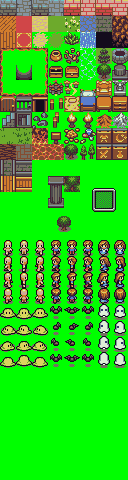
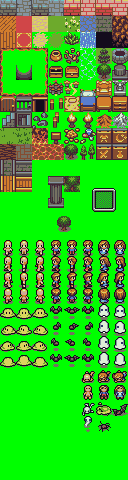
Added combat, imported death sprites.

Changed region(s): [[0.625, 0.75, 1.0, 0.9062]]

diff --git a/main.c b/main.c
@@ -51,16 +51,20 @@ void nentitySpawn(entity in) {
 
 void deadEntityCleaner() {
 	for (register i=0; i<spawnSlot; i++) {
-		if(entSet[i].health==0) entSet[i].behaviourId=0;
+		if(entSet[i].health==0) {
+			entSet[i].behaviourId=255;
+			entSet[i].collisionClass=0;
+		}
 	}
 }
 
 void spriteCollisions() {
 	for (register i=0; i<spawnSlot; i++) {
 		for (register j=0; j<spawnSlot; j++) {
-			if((entSet[j].x+TS/2 > entSet[i].x+entSet[i].xSub) && (entSet[j].x+TS/2 < entSet[i].x+TS-entSet[i].xSub) && entSet[j].collisionClass != entSet[i].collisionClass) { //Checks for X overlap and class conflicts.
+			if((entSet[j].x+TS/2 > entSet[i].x+entSet[i].xSub) && (entSet[j].x+TS/2 < entSet[i].x+TS-entSet[i].xSub) && entSet[j].collisionClass != entSet[i].collisionClass && entSet[j].collisionClass<128 && entSet[j].collisionClass!=0 ){ //Checks for X overlap and class conflicts.
 				if((entSet[j].y+TS/2 > entSet[i].y+entSet[i].ySub) && (entSet[j].y+TS/2 < entSet[i].y+TS-entSet[i].ySub)) { //Checks for Y overlap.
-					if(entSet[i].collisionClass == 2) {
+					switch (entSet[i].collisionClass) {
+						case 2:
 						if (entSet[j].y+TS/2 < entSet[i].y+TS/2) {
 							if(entSet[j].x+TS/2<entSet[i].x+TS/2) {
 								entSet[j].status[2]=entSet[j].collisionClass;
@@ -92,7 +96,45 @@ void spriteCollisions() {
 								entSet[j].behaviourId=8; //down right
 								entSet[j].collisionClass=entSet[i].collisionClass;
 							}
-						}												
+						}
+						break;
+						case 129:
+							printf("Collision");
+							switch(entSet[i].direction) {
+								case 0:
+									entSet[j].status[2]=entSet[j].collisionClass;
+									entSet[j].status[1]=10;
+									entSet[j].status[0]=entSet[j].behaviourId;
+									entSet[j].behaviourId=6; //up right
+									entSet[j].collisionClass=entSet[i].collisionClass;
+								break;
+								case 1:
+									entSet[j].status[2]=entSet[j].collisionClass;
+									entSet[j].status[1]=10;
+									entSet[j].status[0]=entSet[j].behaviourId;
+									entSet[j].behaviourId=8; //down right
+									entSet[j].collisionClass=entSet[i].collisionClass;
+								break;
+								case 2:
+									entSet[j].status[2]=entSet[j].collisionClass;
+									entSet[j].status[1]=10;
+									entSet[j].status[0]=entSet[j].behaviourId;
+									entSet[j].behaviourId=7; //down left
+									entSet[j].collisionClass=entSet[i].collisionClass;
+								break;
+								case 3:
+									entSet[j].status[2]=entSet[j].collisionClass;
+									entSet[j].status[1]=10;
+									entSet[j].status[0]=entSet[j].behaviourId;
+									entSet[j].behaviourId=5; //up left
+									entSet[j].collisionClass=entSet[i].collisionClass;
+								break;
+								if (entSet[entSet[i].status[1]].attack > entSet[j].health) entSet[j].health-=entSet[entSet[i].status[1]].attack;
+								else entSet[j].health=0;									
+							}
+							if (entSet[entSet[i].status[1]].attack < entSet[j].health) entSet[j].health-=entSet[entSet[i].status[1]].attack;
+							else entSet[j].health=0;
+						break;									
 					}
 				}
 			}
@@ -134,7 +176,7 @@ SDL_Surface* surfLoader (SDL_Surface* imgIn, unsigned int sizeX, unsigned int si
 int main () {
 	printf("Scroll status: %u\n", ENABLESCROLL);
 	SDL_Init(SDL_INIT_VIDEO);
-	w = SDL_CreateWindow("Eastward Bound", 0, 0, SW*TS, SH*TS, SDL_WINDOW_OPENGL);
+	w = SDL_CreateWindow(TITLE, 0, 0, SW*TS, SH*TS, SDL_WINDOW_OPENGL);
 	r = SDL_CreateRenderer(w,-1,SDL_RENDERER_ACCELERATED || SDL_RENDERER_PRESENTVSYNC);
 	s = SDL_GetWindowSurface(w);
 	bgLayer=SDL_CreateRGBSurface(0,SW*TS,SH*TS,32,0,0,0,0);
@@ -301,6 +343,7 @@ void loop() {
 		refresh=0;
 	}
 	image(bgLayer,0,0,SW*TS,SH*TS);
+	deadEntityCleaner();
 	spriteCollisions();
 	entityLogic();
 	flip();

diff --git a/entityLogic.c b/entityLogic.c
@@ -3,28 +3,39 @@ void entityLogic() {
 		switch(entSet[i].behaviourId) {
 
 			/*The AI state machine starts here.*/
-
+			case 255:
+				if (entSet[i].deathframe != 0) image(tileset[entSet[i].deathframe], entSet[i].x, entSet[i].y, TS, TS);
+			break;		
 			case 1: //The player.
 				image(tileset[ANIMPARSE], entSet[i].x, entSet[i].y, TS, TS);
 				char pmotion=0;
 				for (register j=0; j<7; j++) { //number of pixels to move per frame.
-					if (keyboard[SDL_SCANCODE_RIGHT]) {
-						moveX(&entSet[i], 1);
-						pmotion=1;
-					}
-					if (keyboard[SDL_SCANCODE_LEFT]) {
-						moveX(&entSet[i], -1);
-						pmotion=1;
-					}						
-					if (keyboard[SDL_SCANCODE_UP]) {
-						moveY(&entSet[i], -1);
-						pmotion=1;
-					}
-					if (keyboard[SDL_SCANCODE_DOWN]) {
-						moveY(&entSet[i], 1);
-						pmotion=1;
-					}
-					if (pmotion == 0) entSet[i].animation=0;
+					if (entSet[i].status[3]==0) {
+						if (keyboard[SDL_SCANCODE_RIGHT]) {
+							moveX(&entSet[i], 1);
+							pmotion=1;
+						}
+						if (keyboard[SDL_SCANCODE_LEFT]) {
+							moveX(&entSet[i], -1);
+							pmotion=1;
+						}						
+						if (keyboard[SDL_SCANCODE_UP]) {
+							moveY(&entSet[i], -1);
+							pmotion=1;
+						}
+						if (keyboard[SDL_SCANCODE_DOWN]) {
+							moveY(&entSet[i], 1);
+							pmotion=1;
+						}
+						if (pmotion == 0) entSet[i].animation=0;
+
+						if (keyboard[SDL_SCANCODE_X] && entSet[i].status[3] == 0 && entSet[i].status[0] == 0) {
+							printf("Detected: %u\n", spawnSlot);
+							entitySpawn(ent_sword(entSet[i].direction, entSet[i].x, entSet[i].y, i));
+							entSet[i].status[3]=10;
+							entSet[i].status[0]=30;
+						}
+					}	
 
 					if (keyboard[SDL_SCANCODE_K]) snapToGrid(&entSet[i]);
 					if (keyboard[SDL_SCANCODE_F11]) SDL_SetWindowFullscreen(w, SDL_WINDOW_FULLSCREEN);                            
@@ -33,8 +44,9 @@ void entityLogic() {
 					if (entSet[i].y+TS > TS*SH-1) scroll=2;
 					if (entSet[i].x < 1) scroll = 3;
 					if (entSet[i].x > TS*SW-TS-1) scroll = 4;
-
 				}
+				if(entSet[i].status[3]>0) entSet[i].status[3]--;
+				if(entSet[i].status[0]>0) entSet[i].status[0]--;
 			break;//End of player.
 
 
@@ -99,6 +111,31 @@ void entityLogic() {
 					entSet[i].collisionClass=entSet[i].status[2];
 				}
 				image(tileset[ANIMPARSE], entSet[i].x, entSet[i].y, TS, TS);
+			break;
+
+
+			case 9:
+				if (entSet[i].status[0]==0) entSet[i].health=0;
+				entSet[i].status[0]--;
+				switch(entSet[entSet[i].status[1]].direction) {
+					case 0:
+						entSet[i].x=entSet[entSet[i].status[1]].x;
+						entSet[i].y=entSet[entSet[i].status[1]].y-TS;
+					break;
+					case 1:
+						entSet[i].x=entSet[entSet[i].status[1]].x;
+						entSet[i].y=entSet[entSet[i].status[1]].y+TS;
+					break;
+					case 2:
+						entSet[i].x=entSet[entSet[i].status[1]].x-TS;
+						entSet[i].y=entSet[entSet[i].status[1]].y;
+					break;
+					case 3:
+						entSet[i].x=entSet[entSet[i].status[1]].x+TS;
+						entSet[i].y=entSet[entSet[i].status[1]].y;
+					break;
+				}
+				if(entSet[entSet[i].status[1]].status[3] != 0) image(tileset[ANIMPARSE], entSet[i].x, entSet[i].y, TS, TS);
 			break;
 		}
 	}

diff --git a/entities.c b/entities.c
@@ -17,14 +17,16 @@ entity ent_player() {
 	me.behaviourId=1;
 	me.x=280;
 	me.y=20;
+	me.health=100;
+	me.attack=5;
 	me.xSub=14;
 	me.ySub=1;
 	me.direction=1;
-	me.collisionClass=0;
-	me.frame[0]=148;
-	me.frame[1]=124;
-	me.frame[2]=132;
-	me.frame[3]=140;
+	me.collisionClass=1;
+	me.frame[0]=148; //up
+	me.frame[1]=124; //down
+	me.frame[2]=132; //left
+	me.frame[3]=140; //right
 	me.frame[4]=147;
 	me.frame[5]=123;
 	me.frame[6]=131;
@@ -43,6 +45,8 @@ entity ent_aitest() {
 	me.ySub=10;
 	me.direction=1;
 	me.attack=2;
+	me.deathframe=206;
+	me.health=30;
 	me.collisionClass=2;
 	me.frame[0]=177;
 	me.frame[1]=153;
@@ -60,9 +64,46 @@ entity ent_aitest() {
 	return me;
 }
 
+entity ent_sword(unsigned char direction, uint16_t x, uint16_t y, unsigned char creator) {
+	entity me;
+	switch(direction){
+		case 0:
+			me.y-=TS;
+			me.xSub=16;
+			me.ySub=1;
+		break;
+		case 1:
+			me.y+=TS;
+			me.xSub=16;
+			me.ySub=1;			
+		break;
+		case 2:
+			me.x-=TS;
+			me.xSub=1;
+			me.ySub=16;
+		break;
+		case 3:
+			me.x+=TS;
+			me.xSub=1;
+			me.ySub=16;
+		break;
+	}
+	me.frame[0]=67;
+	me.frame[1]=67;
+	me.frame[2]=67;
+	me.frame[3]=67;
+	me.status[0]=10;
+	me.status[1]=creator;
+	me.behaviourId=9;
+	me.setframe=direction;
+	me.collisionClass=129;
+	return me;
+}
+
 entity ent_wall(unsigned char x, unsigned char y, unsigned char tile) {
 	entity me;
 	me.behaviourId=2;
+	me.health=1;
 	me.x=x*TS;
 	me.y=y*TS;
 	me.frame[0]=tile;
@@ -74,6 +115,8 @@ entity ent_wall(unsigned char x, unsigned char y, unsigned char tile) {
 entity ent_nonsolid(unsigned char x, unsigned char y, unsigned char tile) {
 	entity me;
 	me.behaviourId=2;
+	me.collisionClass=0;
+	me.health=1;
 	me.x=x*TS;
 	me.y=y*TS;
 	me.animation=0;

diff --git a/main.h b/main.h
@@ -8,7 +8,7 @@
 #define FLIMIT 32
 #define INVLIMIT 8
 #define ENTFRAMES 32
-#define TILECOUNT 182 //Set this to the actual number of sprites for best performance.
+#define TILECOUNT 214 //Set this to the actual number of sprites for best performance.
 #define FRAMERATE 30
 
 #define SHEETX 128 //Tile sheet size
@@ -18,6 +18,8 @@
 
 #define ANIMPARSE entSet[i].frame[entSet[i].direction+entSet[i].animation]
 #define PRESENTENT entSet[i]
+
+#define TITLE "Eastbound Interloper"
 
 
 SDL_Window* w = NULL;
@@ -47,6 +49,7 @@ typedef struct entity {
 	unsigned char inventory[INVLIMIT];
 	unsigned char frame[FLIMIT];
 	unsigned char setframe;
+	unsigned char deathframe;
 } entity;
 
 typedef struct screen {

diff --git a/maps.c b/maps.c
@@ -42,8 +42,8 @@ screen testhouse() {
 		{-1,-1,-1,-1,-1,-1,-1,-1,-1,-1},
 		{-1,-1,-1,54,-1,-1,-1,-1,-1,-1},
 		{-1,-1,-1,-1,-1,-1,-1,-1,-1,-1},
-		{-1,-1,-1,-1,-1,-1,-1,-1,-1,-1},
 		{-1,-1,-1,55,-1,-1,-1,-1,-1,-1},
+		{-1,-1,-1,-1,-1,-1,-1,-1,-1,-1},
 		{-1,-1,-1,45,53,-1,-1,-1,-1,-1},
 		{-1,-1,-1,-1,-1,-1,-1,-1,-1,-1},
 		{-1,-1,-1,-1,-1,-1,-1,-1,-1,-1},

diff --git a/worldgen.c b/worldgen.c
@@ -33,7 +33,6 @@ void worldgen(uint16_t xPos, uint16_t yPos) {
 	}
 	if(xPos == 0 && yPos == 0) {
 		memcpy(&nScreen, testhouse().tileLayer, sizeof nScreen);
-		//nentitySpawn(ent_techo());
 	}
 }
 
